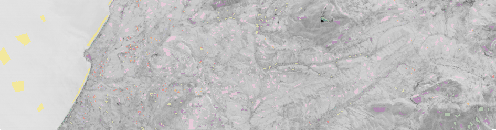
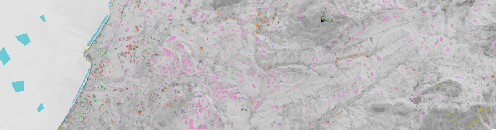
refactoring sklearn models

diff --git a/hskl/utils.py b/hskl/utils.py
@@ -20,7 +20,7 @@ def overlay(X,Y,fig_params={},ax_params={}):
     
     # Y==0 corresponds to alpha=0
     alphas = (Y>0).astype(float)*0.6
-    cmap = plt.get_cmap('Set3')
+    cmap = plt.get_cmap('tab10')
     norm = mpl.colors.Normalize(vmin=1,vmax=np.max(Y))
     RGBA = cmap(norm(Y))
     RGBA[:,:,3] = alphas

diff --git a/setup.py b/setup.py
@@ -5,7 +5,7 @@ with open("README.md", "r", encoding="utf-8") as fh:
 
 setuptools.setup(
     name="hskl",
-    version="0.0.3dev1",
+    version="0.0.3.dev1",
     author="Qian Cao",
     author_email="qcao.dev@gmail.com",
     description="Hyperspectral image analysis with scikit-learn.",

diff --git a/README.md b/README.md
@@ -52,15 +52,15 @@ Output:
 
 Training image and ground truth labels:
 
-![Training](examples/hyrank_train.png)
+![Training](https://raw.githubusercontent.com/qiancao/hskl/main/examples/hyrank_train.png)
 
 Test image and ground truth labels:
 
-![Testing Ground Truth](examples/hyrank_test.png)
+![Testing Ground Truth](https://raw.githubusercontent.com/qiancao/hskl/main/examples/hyrank_test.png)
 
 Test image and predicted labels:
 
-![Testing Prediction](examples/hyrank_predict.png)
+![Testing Prediction](https://raw.githubusercontent.com/qiancao/hskl/main/examples/hyrank_predict.png)
 
 Notes:
 1. Shape of `train` and `test` arrays are (DimX, DimY, SpectralChannels).
